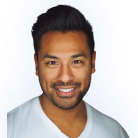
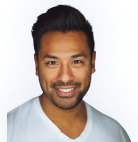
Fix members images and margin

diff --git a/index.html b/index.html
@@ -219,6 +219,7 @@
             <div class="members__members">
                 <div class="members__member-card">
                     <div class="members__member-avatar">
+                        <img src="./Images/avatar-bluecheck.svg" alt="" class="members__member-bluecheck">
                         <img src="./Images/members-photo-frame.png" class="members__member-frame" alt="">
                         <img src="./Images/members-001.png" class="members__member-picture"
                             alt="picture of Fahim Rahman">
@@ -228,6 +229,7 @@
                 </div>
                 <div class="members__member-card">
                     <div class="members__member-avatar">
+                        <img src="./Images/avatar-bluecheck.svg" alt="" class="members__member-bluecheck">
                         <img src="./Images/members-photo-frame.png" class="members__member-frame" alt="">
                         <img src="./Images/members-002.png" class="members__member-picture"
                             alt="picture of Fahim Rahman">
@@ -237,6 +239,7 @@
                 </div>
                 <div class="members__member-card">
                     <div class="members__member-avatar">
+                        <img src="./Images/avatar-bluecheck.svg" alt="" class="members__member-bluecheck">
                         <img src="./Images/members-photo-frame.png" class="members__member-frame" alt="">
                         <img src="./Images/members-003.png" class="members__member-picture"
                             alt="picture of Fahim Rahman">
@@ -246,6 +249,7 @@
                 </div>
                 <div class="members__member-card">
                     <div class="members__member-avatar">
+                        <img src="./Images/avatar-bluecheck.svg" alt="" class="members__member-bluecheck">
                         <img src="./Images/members-photo-frame.png" class="members__member-frame" alt="">
                         <img src="./Images/members-004.png" class="members__member-picture"
                             alt="picture of Fahim Rahman">

diff --git a/Style/main.css b/Style/main.css
@@ -432,6 +432,10 @@ p.section__subtitle {
   box-shadow: 0px 10px 22px -2px rgba(250, 186, 84, 0.3);
 }
 
+.members {
+  margin-bottom: 80px;
+}
+
 .members__content  {
   width: 450px;
   margin: 0 auto;
@@ -489,11 +493,21 @@ p.section__subtitle {
 }
 
 .members__member-picture {
+  background-color: var(--color-primary-10);
   border-radius: 50%;
   position: absolute;
   top: 50%;
   left: 50%;
   transform: translate(-50%, -50%);
+  width: 142px;
+}
+
+.members__member-bluecheck {
+  position: absolute;
+  left: 50%;
+  transform: translateX(-50%);
+  bottom: -5px;
+  z-index: 1;
 }
 
 .members__member-avatar {
